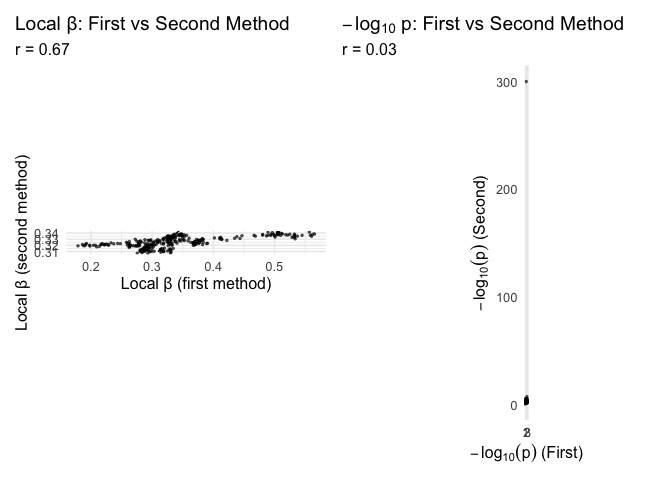
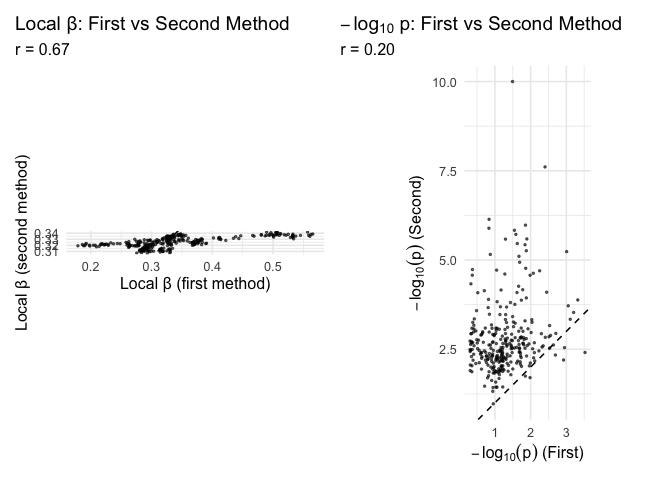
kNN construction and use

diff --git a/README.md b/README.md
@@ -205,7 +205,7 @@ print(G_results)  # test should be significant if nu is highly +ve or -ve
 # var1   0.3274669 3.509168e-06               202          0.8682875
 
 
-L_results <- local_res(MM$Beta[, -c(1:N)],  local.p.ths = 0.9)
+L_results <- local_res(MM$Beta[, -c(1:N)])
 print(L_results[1:5, ]) # printing the estimates and p-values for the first 5 locations
 #   local.beta local.pval Geweke.local.beta
 # 1  0.3299877 0.09477831         0.8919659
@@ -306,7 +306,7 @@ estimates and p-values.
 
 ``` r
 
-L_results_ICAR <- local_res(MM_ICAR$Beta[, -c(1:N)],  local.p.ths = 0.9)
+L_results_ICAR <- local_res(MM_ICAR$Beta[, -c(1:N)])
 
 plot_local_comparisons(L_results, L_results_ICAR)
 ```
@@ -336,7 +336,7 @@ We plot the results in a pairwise fashion.
 
 ``` r
 
-L_results_Del <- local_res(MM_HS_Del$Beta[, -c(1:N)],  local.p.ths = 0.9)
+L_results_Del <- local_res(MM_HS_Del$Beta[, -c(1:N)])
 
 plot_local_comparisons(L_results, L_results_Del)
 ```
